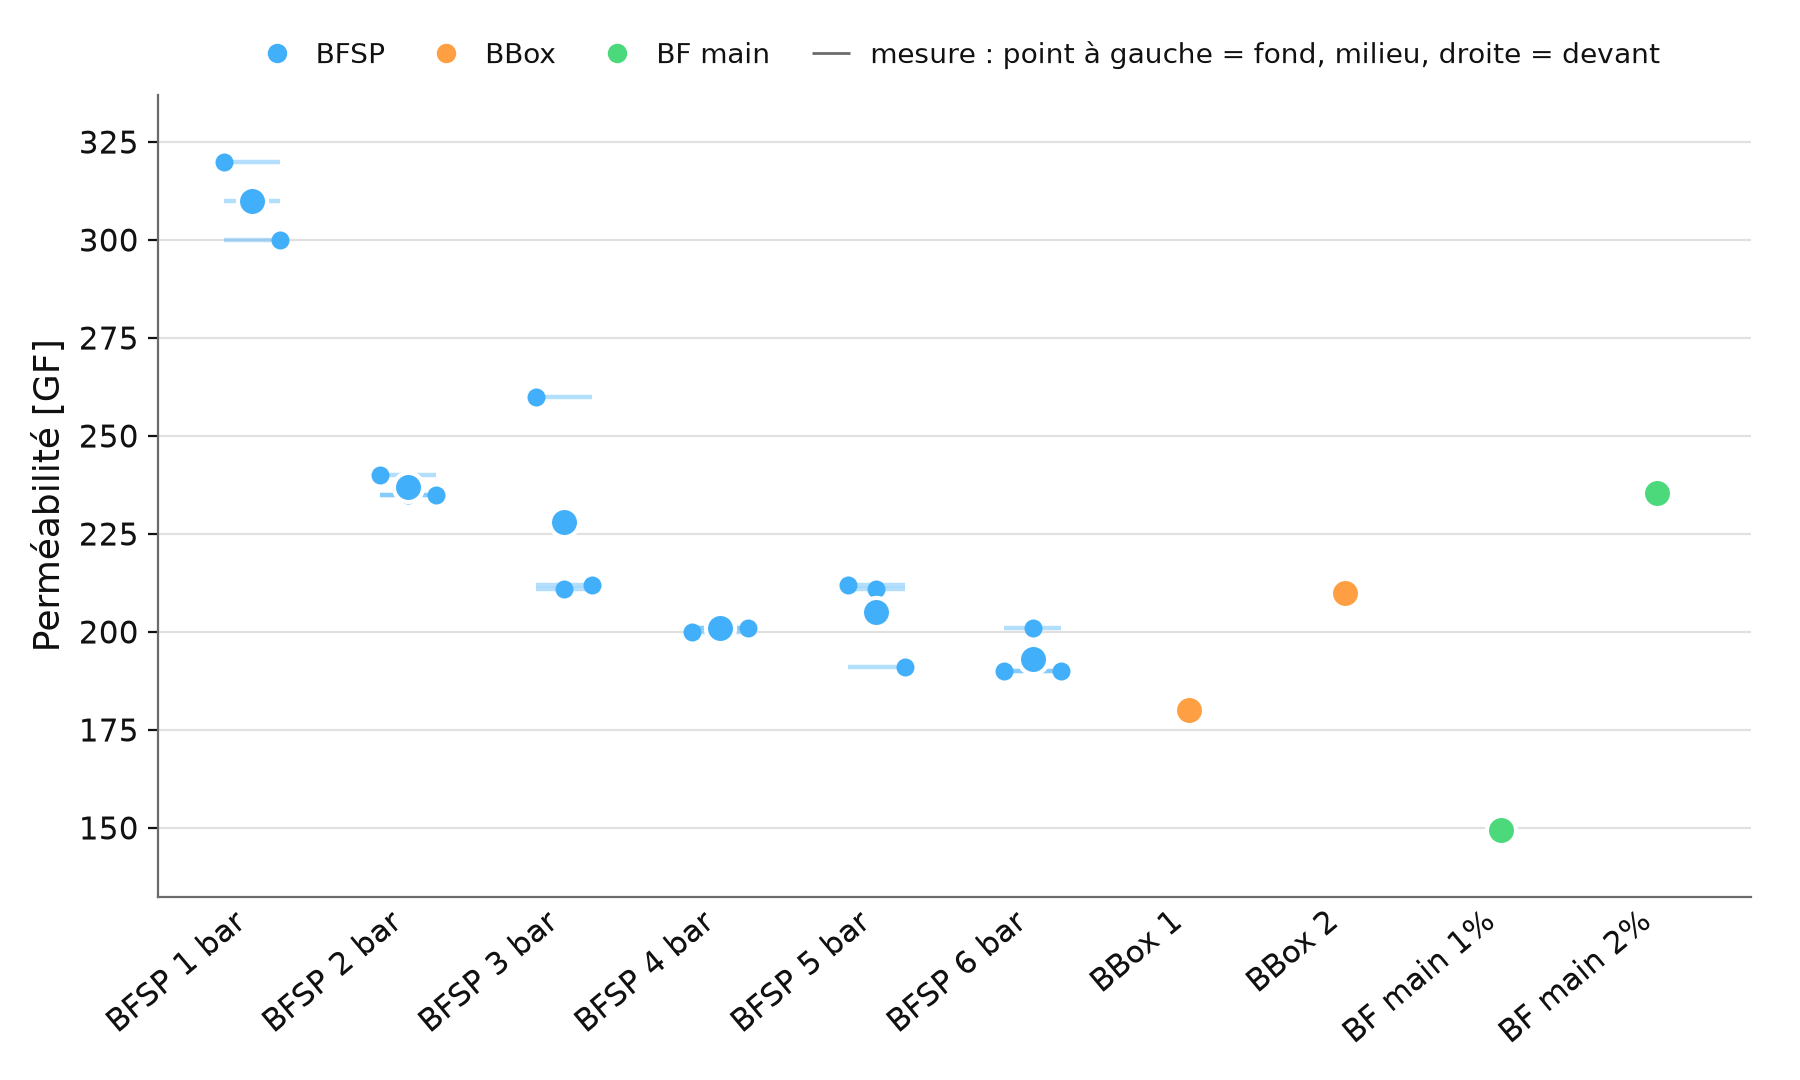
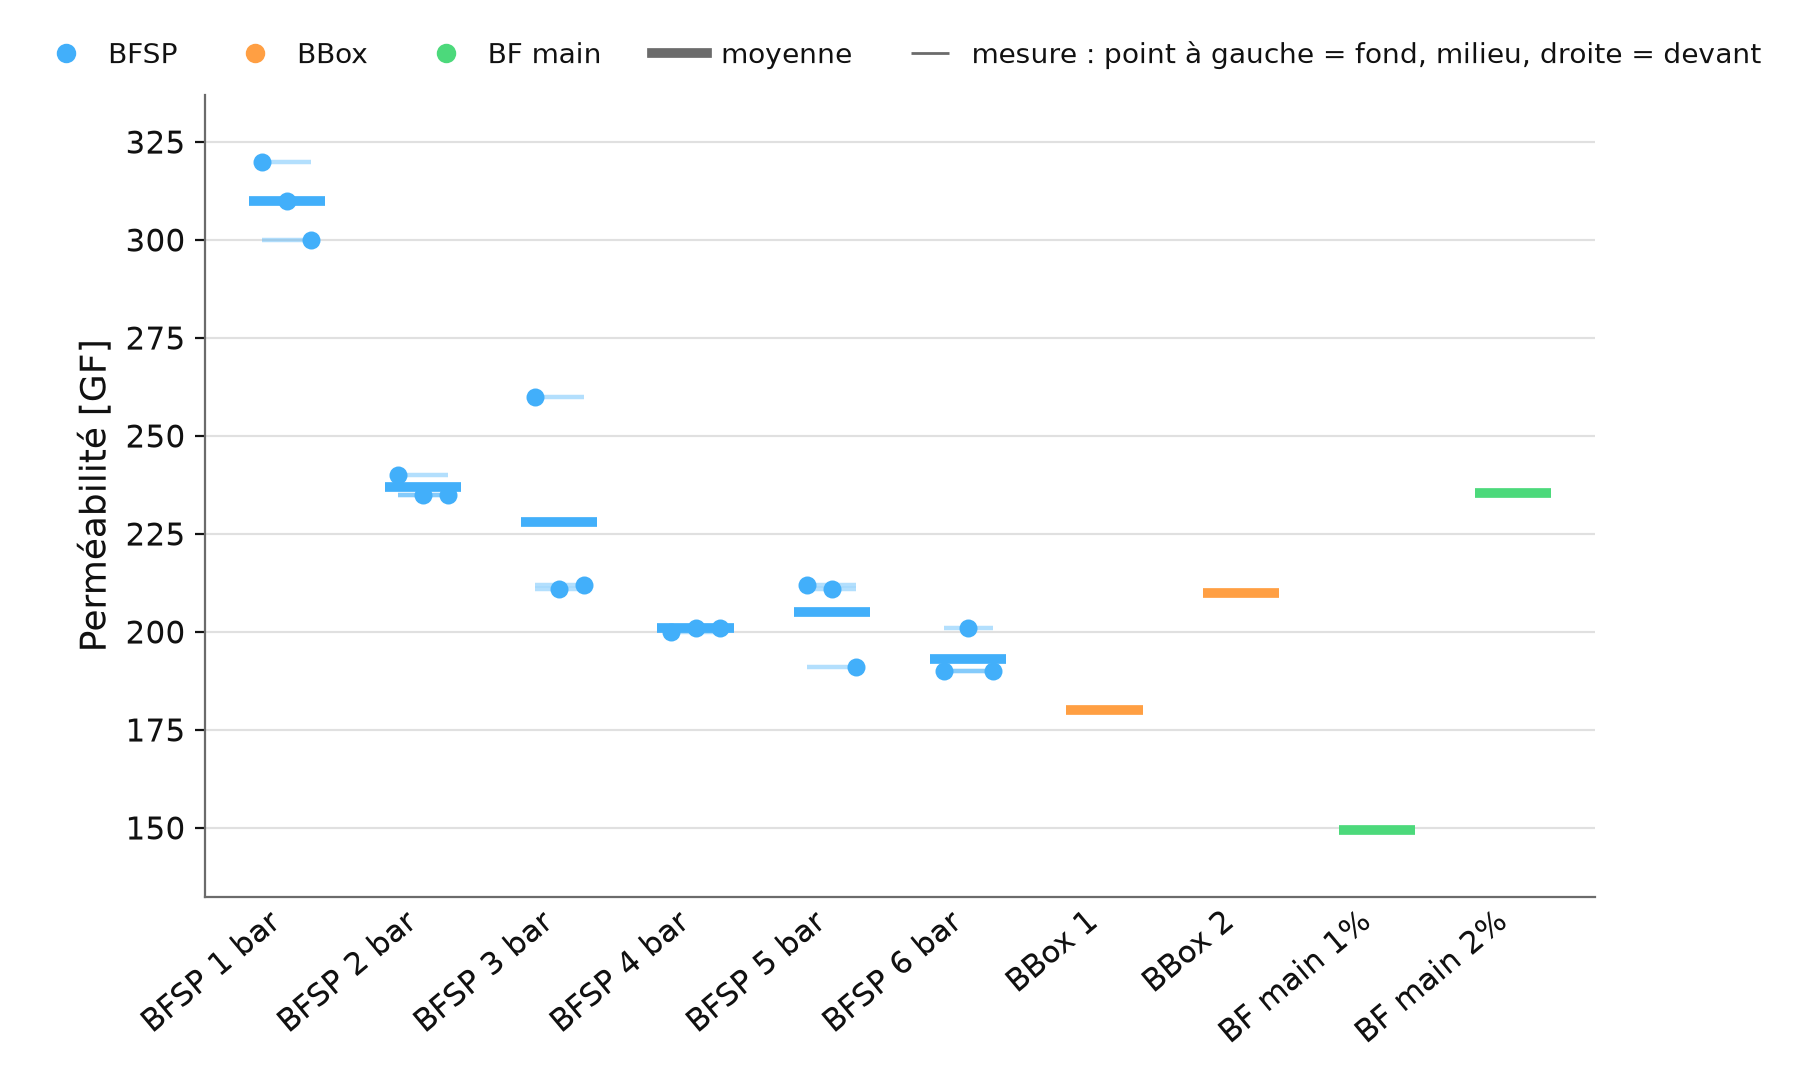
Mean as wide line, fix r-stack figure size

diff --git a/index.html b/index.html
@@ -58,6 +58,10 @@
     .tables-row h4 { font-size: 0.8em; margin: 0 0 0.5em; }
     .tables-row table { font-size: 0.4em; width: 100%; }
     .big-table table { font-size: 0.9em; width: 100%; }
+    /* r-stack inside a centred slide would shrink to its content; keep it full width so
+       stacked figures get the same size as single ones */
+    .reveal .r-stack { width: 100%; justify-items: center; }
+    .reveal .r-stack img { width: 905px; max-width: none; max-height: none; margin: 0; }
     .title-slide .date { margin-top: auto; margin-bottom: 0.5em; font-size: 0.5em; color: var(--muted); }
   </style>
 </head>
@@ -91,7 +95,7 @@
     <!-- Idealised force-displacement curves for pressures 1-6 bar (scripts/plot_theory.py) -->
     <section class="centered">
       <figure>
-        <img src="figures/courbes_theoriques_dark.png?v=3" alt="Courbes force-déplacement idéalisées pour des pressions de 1 à 6 bar : chaque courbe monte jusqu'à un maximum puis redescend, le maximum augmente avec la pression en se saturant.">
+        <img src="figures/courbes_theoriques_dark.png?v=7" alt="Courbes force-déplacement idéalisées pour des pressions de 1 à 6 bar : chaque courbe monte jusqu'à un maximum puis redescend, le maximum augmente avec la pression en se saturant.">
       </figure>
       <aside class="notes">
         <p class="fact">Courbes qualitatives, pas des mesures : modèle simplifié (montée, pic F_max, adoucissement jusqu'à un palier). F_max augmente avec la pression et sature ; même forme de courbe pour toutes les pressions.</p>
@@ -167,7 +171,7 @@
     <section>
       <section class="centered">
         <figure>
-          <img src="figures/masse_dark.png?v=3" alt="Nuage de points de la masse en grammes par échantillon : BFSP 1 à 6 bar de 135 à 143 g, BBox 1 et 2 vers 149 g, BF main 1 % et 2 % vers 152 g.">
+          <img src="figures/masse_dark.png?v=7" alt="Nuage de points de la masse en grammes par échantillon : BFSP 1 à 6 bar de 135 à 143 g, BBox 1 et 2 vers 149 g, BF main 1 % et 2 % vers 152 g.">
         </figure>
         <aside class="notes"><p>[...]</p></aside>
       </section>
@@ -244,7 +248,7 @@
     <section>
       <section class="centered">
         <figure>
-          <img src="figures/permeabilite_dark.png?v=3" alt="Nuage de points de la perméabilité par échantillon : BFSP de 310 à 193, BBox 180 et 210, BF main 149,5 et 235,5.">
+          <img src="figures/permeabilite_dark.png?v=7" alt="Nuage de points de la perméabilité par échantillon : BFSP de 310 à 193, BBox 180 et 210, BF main 149,5 et 235,5.">
         </figure>
         <aside class="notes"><p>[...]</p></aside>
       </section>
@@ -322,8 +326,8 @@
       <section class="centered">
         <!-- first image fades out when the BFSP-only plot (own y axis) fades in -->
         <div class="r-stack">
-          <img class="fragment fade-out" data-fragment-index="0" src="figures/cisaillement_dark.png?v=3" alt="Nuage de points de la force maximale en newtons par échantillon : BFSP de 673 à 1161, BBox 411 et 431, BF main 1834 et 5226.">
-          <img class="fragment" data-fragment-index="0" src="figures/cisaillement_bfsp_dark.png?v=3" alt="Même nuage de points, limité à BFSP 1 à 6 bar, avec un axe vertical plus resserré.">
+          <img class="fragment fade-out" data-fragment-index="0" src="figures/cisaillement_dark.png?v=7" alt="Nuage de points de la force maximale en newtons par échantillon : BFSP de 673 à 1161, BBox 411 et 431, BF main 1834 et 5226.">
+          <img class="fragment" data-fragment-index="0" src="figures/cisaillement_bfsp_dark.png?v=7" alt="Même nuage de points, limité à BFSP 1 à 6 bar, avec un axe vertical plus resserré.">
         </div>
         <aside class="notes"><p>[...]</p></aside>
       </section>

diff --git a/scripts/plot_scatter.py b/scripts/plot_scatter.py
@@ -1,6 +1,6 @@
 """Scatterplots for Tableau 1-3 (masse, permeabilite, cisaillement), light + dark.
 
-Big dot = mean per sample, read from the first tbl-1 / tbl-2 / tbl-3 table in index.html.
+Wide thick line = mean per sample, read from the first tbl-1 / tbl-2 / tbl-3 table in index.html.
 Where data/raw.csv has the three measurements (fond, milieu, devant) for a sample, a
 short horizontal line is drawn per measurement; a dot on its left / middle / right end
 marks fond / milieu / devant.
@@ -30,6 +30,7 @@ PLOTS = [
     ("cisaillement_bfsp", "tbl-3", r"$F_{max}$ [N]", {"BFSP"}),
 ]
 HALF = 0.18
+MEAN_HALF = 0.28
 COLORS = {"BFSP": "#42affa", "BBox": "#ff9f43", "BF main": "#4cd97b"}
 THEMES = {
     "dark": dict(bg="#000000", fg="#ffffff", muted="#898781", grid=(1, 1, 1, 0.12)),
@@ -75,7 +76,7 @@ for out_name, table_id, label, keep in PLOTS:
                     ax.hlines(v, x - HALF, x + HALF, color=col, linewidth=1.6, alpha=0.4,
                               zorder=3)
                     ax.scatter(dot_x, v, s=30, color=col, zorder=4)
-            ax.scatter(x, mean, s=110, color=col, edgecolor=c["bg"], linewidth=1.5, zorder=5)
+            ax.hlines(mean, x - MEAN_HALF, x + MEAN_HALF, color=col, linewidth=3.5, zorder=5)
         ax.set_xticks(range(len(pts)), [n for n, _ in pts], rotation=40, ha="right",
                       color=c["fg"], fontsize=11)
         ax.tick_params(axis="y", colors=c["fg"], labelsize=11)
@@ -91,11 +92,12 @@ for out_name, table_id, label, keep in PLOTS:
         ax.margins(y=0.1)
         handles = [Line2D([], [], marker="o", linestyle="", color=col, label=g)
                    for g, col in COLORS.items() if keep is None or g in keep]
-        handles += [Line2D([], [], marker="_", markersize=14, linestyle="", color=c["muted"],
+        handles += [Line2D([], [], color=c["muted"], linewidth=3.5, label="moyenne"),
+                    Line2D([], [], marker="_", markersize=14, linestyle="", color=c["muted"],
                            label="mesure : point à gauche = fond, milieu, droite = devant")]
         ax.legend(handles=handles, loc="lower center", bbox_to_anchor=(0.5, 1.0),
                   ncol=len(handles), frameon=False, fontsize=10, labelcolor=c["fg"],
-                  columnspacing=1.2, handletextpad=0.4)
+                  columnspacing=1.8, handletextpad=0.5)
         fig.tight_layout()
         fig.savefig(root / "figures" / f"{out_name}_{theme}.png", facecolor=c["bg"])
         plt.close(fig)
